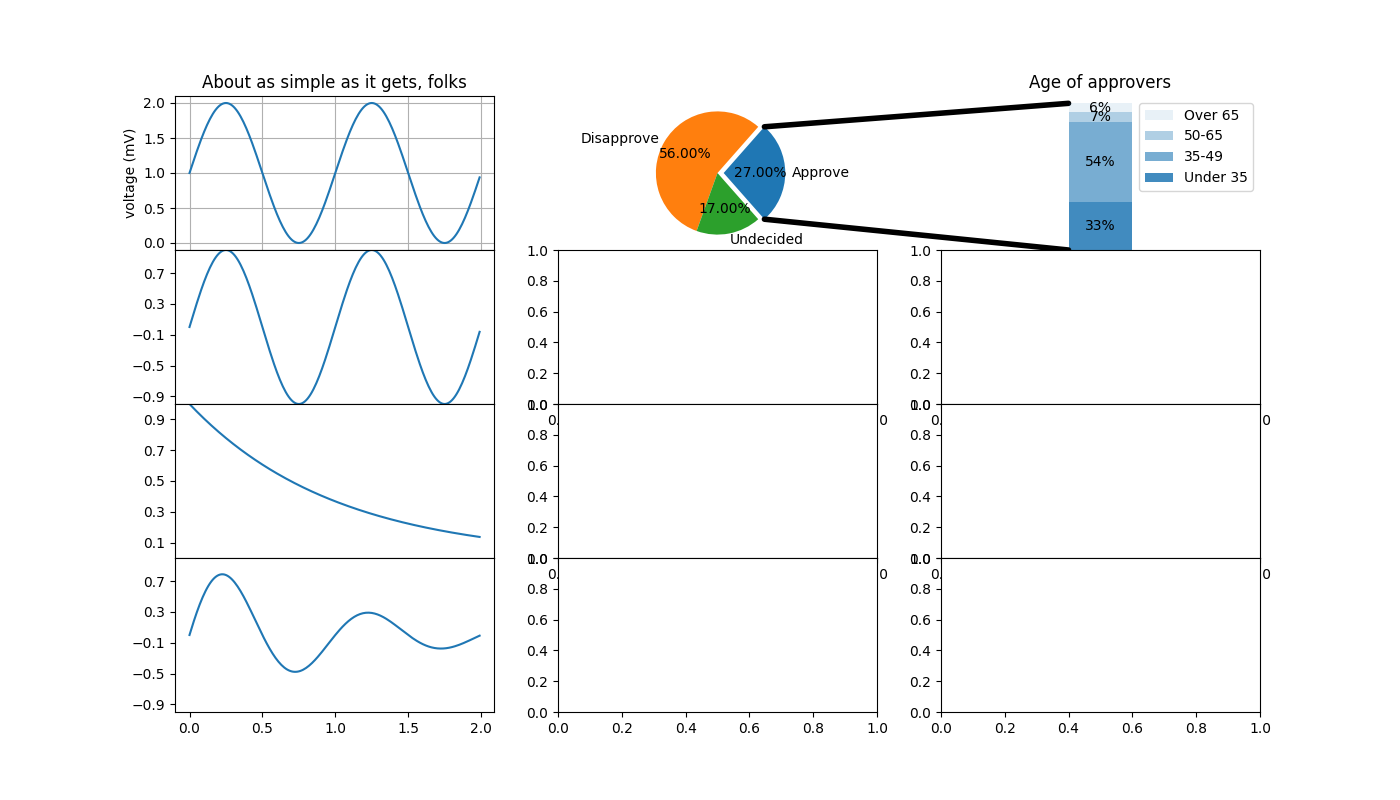
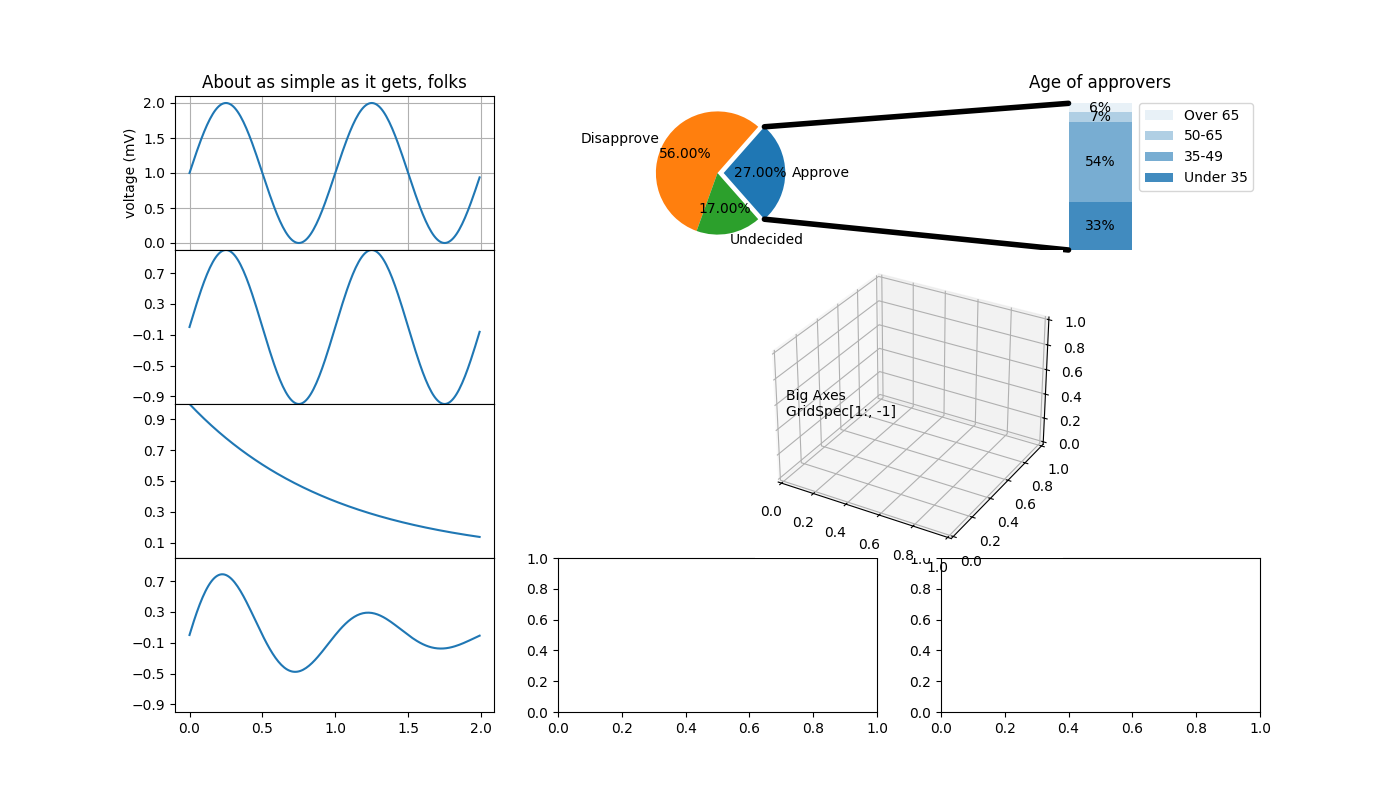
matplotlib 2D and 3D Axes in same figure. Added 3D BIG subplot

diff --git a/plotlib2.py b/plotlib2.py
@@ -101,7 +101,16 @@ axs[3,0].set_yticks(np.arange(-0.9, 1.0, 0.4))
 axs[3,0].set_ylim(-1, 1)
 axs[3,0].sharex(axs[1,0])
 
+gs = axs[1, 1].get_gridspec()
+print(axs[1:3, 1:])
+for ax in axs[1:3, 1:].flatten():
+    ax.remove()
+axbig = fig.add_subplot(gs[1:3, 1:], projection='3d')
+axbig.annotate('Big Axes \nGridSpec[1:, -1]', (0.1, 0.5),
+               xycoords='axes fraction', va='center')
+
 fig.subplots_adjust(hspace=0)
+# fig.tight_layout()
 fig.savefig("test.png")
 
 plt.show()

diff --git a/plotlib5.py b/plotlib5.py
@@ -1,0 +1,14 @@
+import matplotlib.pyplot as plt
+
+fig, axs = plt.subplots(ncols=3, nrows=3)
+gs = axs[1, 2].get_gridspec()
+# remove the underlying Axes
+for ax in axs[1:, -1]:
+    ax.remove()
+axbig = fig.add_subplot(gs[1:, -1])
+axbig.annotate('Big Axes \nGridSpec[1:, -1]', (0.1, 0.5),
+               xycoords='axes fraction', va='center')
+
+fig.tight_layout()
+
+plt.show()
